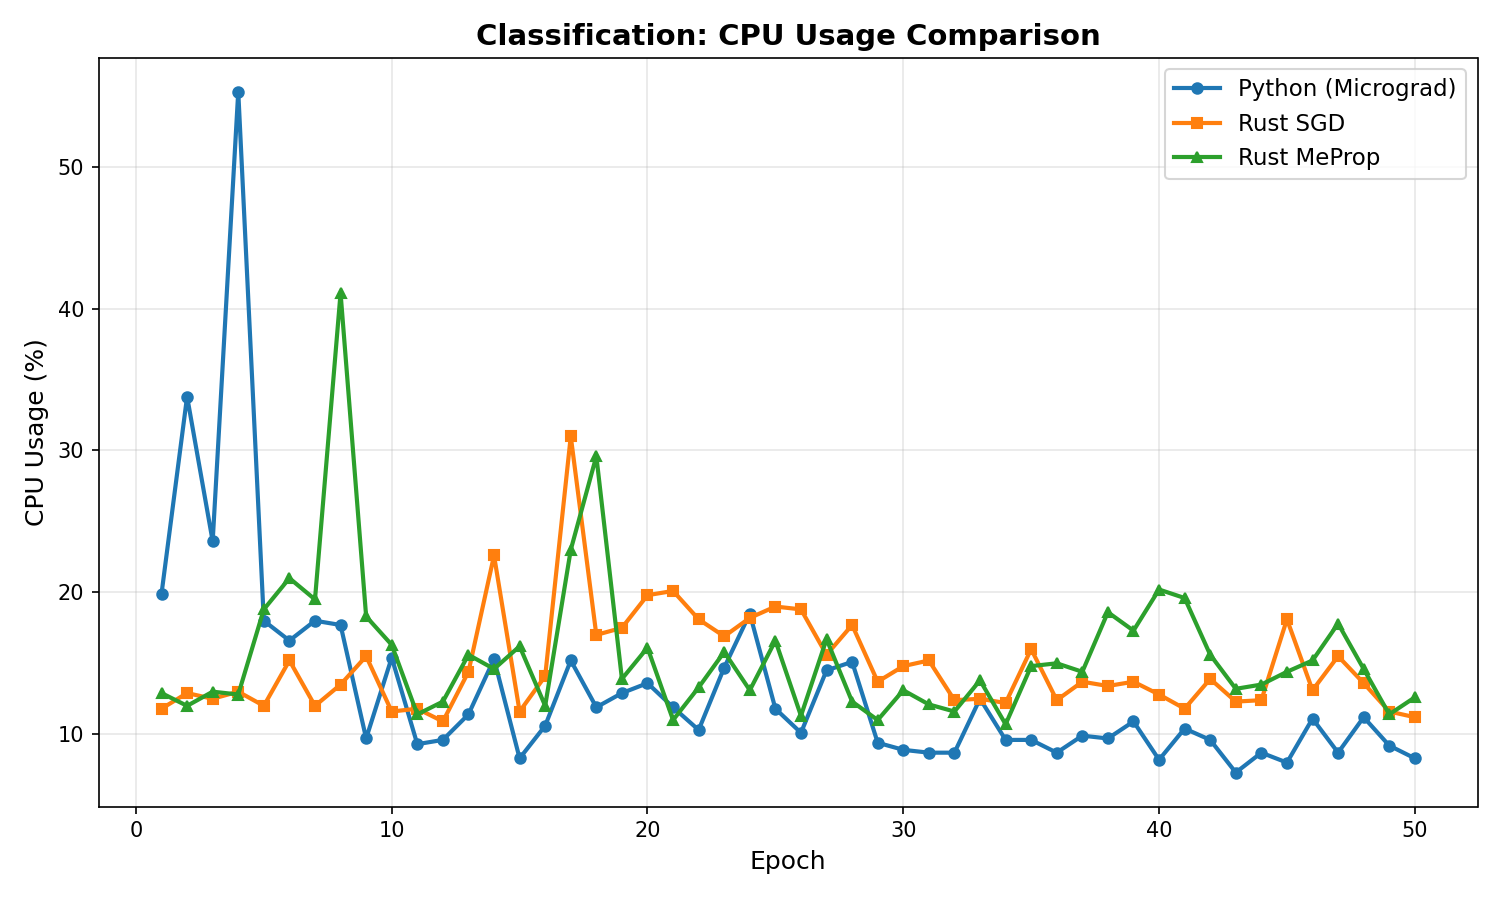
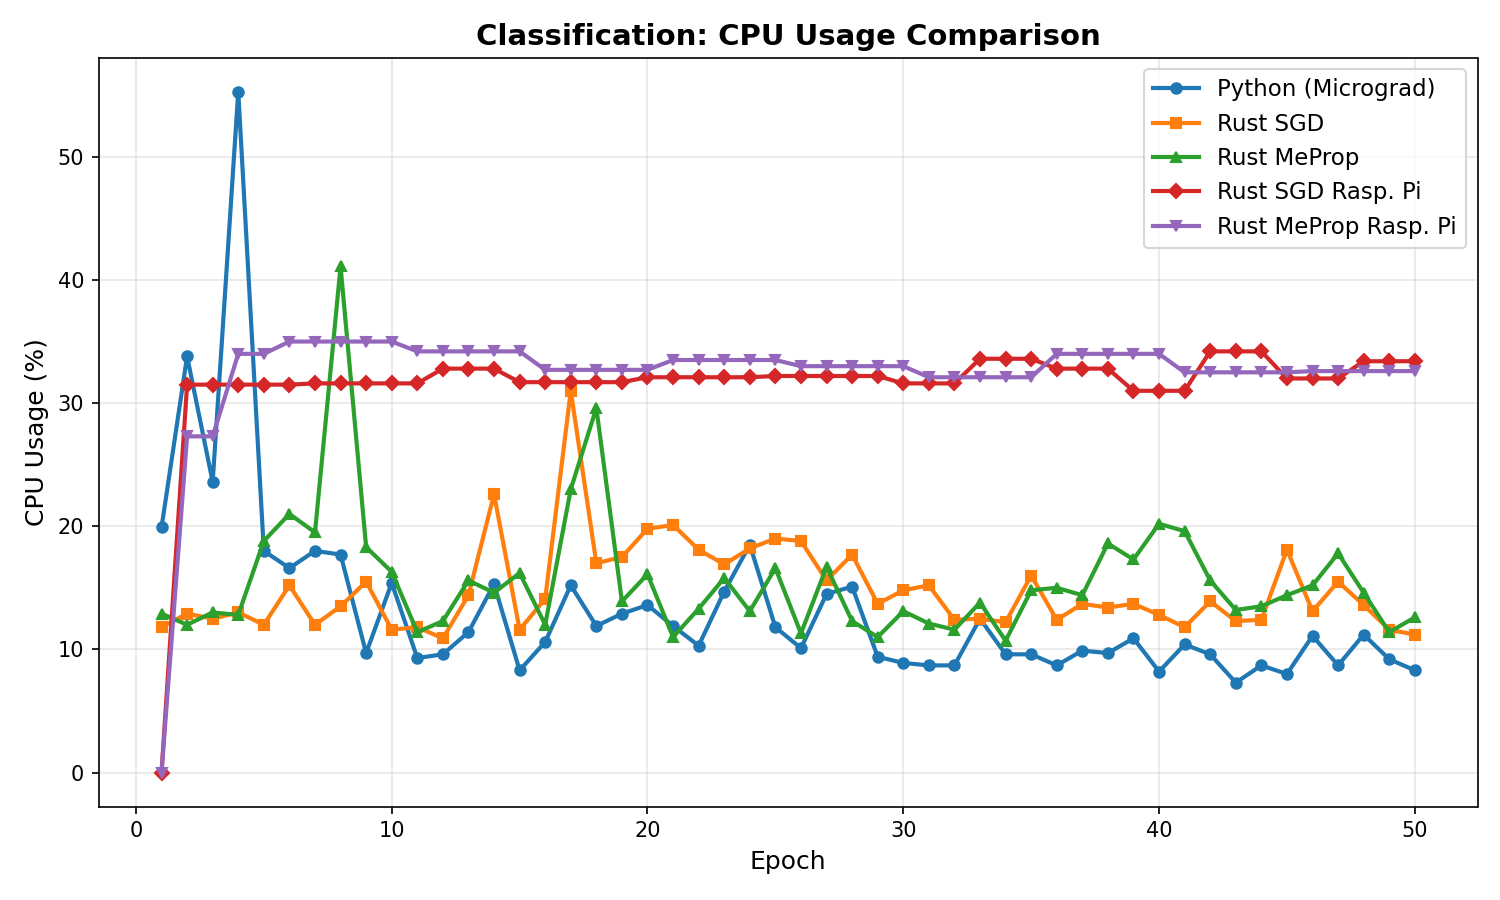
ready results

diff --git a/compare_results.py b/compare_results.py
@@ -21,12 +21,16 @@ CLASSIFICATION_RUNS = [
     ("Python (Micrograd)", "python-tests/micrograd/classification-diabetes/training_metrics.csv"),
     ("Rust SGD", "python-tests/rusty-axon/classification-diabetes/rust_classification_metrics_sgd.csv"),
     ("Rust MeProp", "python-tests/rusty-axon/classification-diabetes/rust_classification_metrics_meprop.csv"),
+    ("Rust SGD Rasp. Pi", "python-tests/rusty-axon-rpi/classification-diabetes/rust_classification_metrics_sgd.csv"),
+    ("Rust MeProp Rasp. Pi", "python-tests/rusty-axon-rpi/classification-diabetes/rust_classification_metrics_meprop.csv"),
 ]
 
 REGRESSION_RUNS = [
     ("Python (Micrograd)", "python-tests/micrograd/regression-california-housing/training_metrics.csv"),
     ("Rust SGD", "python-tests/rusty-axon/regression-california-housing/rust_regression_metrics_sgd.csv"),
     ("Rust MeProp", "python-tests/rusty-axon/regression-california-housing/rust_regression_metrics_meprop.csv"),
+    ("Rust SGD Rasp. Pi", "python-tests/rusty-axon-rpi/regression-california-housing/rust_regression_metrics_sgd.csv"),
+    ("Rust MeProp Rasp. Pi", "python-tests/rusty-axon-rpi/regression-california-housing/rust_regression_metrics_meprop.csv"),
 ]
 
 
@@ -334,14 +338,6 @@ def main() -> None:
         print()
         regression_runs = compare_regression()
 
-    print("\n" + "=" * 80)
-    print("KEY TAKEAWAYS")
-    print("=" * 80)
-    print("• Rust should be 5-10x faster due to compiled, optimized code")
-    print("• Model quality (accuracy/loss) should be similar (±5%)")
-    print("• Minor differences expected due to random initialization")
-    print("• Rust provides type safety & memory safety guarantees")
-    print("=" * 80)
 
     if classification_runs or regression_runs:
         print("\n📝 Saving summary to markdown...")

diff --git a/python-tests/graphs/benchmark_summary.md b/python-tests/graphs/benchmark_summary.md
@@ -1,6 +1,6 @@
 # Benchmark Comparison: Micrograd (Python) vs Rusty-Axon (Rust)
 
-*Generated: 2025-12-10 22:35:16*
+*Generated: 2025-12-11 07:51:21*
 
 ---
 
@@ -9,21 +9,21 @@
 ### Final Epoch Metrics
 
 
-| Metric | Python (Micrograd) | Rust SGD | Rust MeProp | Diff vs Python (Micrograd) |
-|---|---|---|---|---|
-| Train Loss | 0.383098 | 0.243230 | 0.232257 | -0.139868 / -0.150841 |
-| Train Accuracy | 0.768730 | 0.757329 | 0.781759 | -0.011401 / +0.013029 |
-| Test Loss | 0.416294 | 0.245174 | 0.264327 | -0.171120 / -0.151967 |
-| Test Accuracy | 0.753247 | 0.740260 | 0.753247 | -0.012987 / +0.000000 |
-| F1 Score | 0.586957 | 0.726027 | 0.577778 | +0.139070 / -0.009179 |
+| Metric | Python (Micrograd) | Rust SGD | Rust MeProp | Rust SGD Rasp. Pi | Rust MeProp Rasp. Pi | Diff vs Python (Micrograd) |
+|---|---|---|---|---|---|---|
+| Train Loss | 0.383098 | 0.243230 | 0.232257 | 0.236532 | 0.247883 | -0.139868 / -0.150841 / -0.146566 / -0.135215 |
+| Train Accuracy | 0.768730 | 0.757329 | 0.781759 | 0.778502 | 0.773616 | -0.011401 / +0.013029 / +0.009772 / +0.004886 |
+| Test Loss | 0.416294 | 0.245174 | 0.264327 | 0.237936 | 0.270961 | -0.171120 / -0.151967 / -0.178358 / -0.145333 |
+| Test Accuracy | 0.753247 | 0.740260 | 0.753247 | 0.772727 | 0.759740 | -0.012987 / +0.000000 / +0.019480 / +0.006493 |
+| F1 Score | 0.586957 | 0.726027 | 0.577778 | 0.615385 | 0.610526 | +0.139070 / -0.009179 / +0.028428 / +0.023569 |
 ### Performance Metrics
 
-| Metric | Python (Micrograd) | Rust SGD | Speedup | Rust MeProp | Speedup |
-|---|---|---|---|---|---|
-| Total Training Time (s) | 35.31 | 2.31 | 15.31x | 2.31 | 15.27x
-| Avg Time per Epoch (s) | 0.71 | 0.05 | 15.31x | 0.05 | 15.27x
-| Avg CPU Usage (%) | 13.2 | 14.8 | - | 15.6 | - |
-| Avg RAM Usage (%) | 19.5 | 16.7 | - | 16.7 | - |
+| Metric | Python (Micrograd) | Rust SGD | Speedup | Rust MeProp | Speedup | Rust SGD Rasp. Pi | Speedup | Rust MeProp Rasp. Pi | Speedup |
+|---|---|---|---|---|---|---|---|---|---|
+| Total Training Time (s) | 35.31 | 2.31 | 15.31x | 2.31 | 15.27x | 4.74 | 7.44x | 4.80 | 7.36x
+| Avg Time per Epoch (s) | 0.71 | 0.05 | 15.31x | 0.05 | 15.27x | 0.09 | 7.44x | 0.10 | 7.36x
+| Avg CPU Usage (%) | 13.2 | 14.8 | - | 15.6 | - | 31.6 | - | 32.4 | - |
+| Avg RAM Usage (%) | 19.5 | 16.7 | - | 16.7 | - | 10.2 | - | 10.2 | - |
 
 ### Generated Plots
 
@@ -43,18 +43,18 @@
 ### Final Epoch Metrics
 
 
-| Metric | Python (Micrograd) | Rust SGD | Rust MeProp | Diff vs Python (Micrograd) |
-|---|---|---|---|---|
-| Loss (MSE) | 0.001892 | 0.000277 | 0.000020 | -0.001615 / -0.001872 |
-| RMSE | 0.043498 | 0.016608 | 0.004503 | -0.026890 / -0.038995 |
+| Metric | Python (Micrograd) | Rust SGD | Rust MeProp | Rust SGD Rasp. Pi | Rust MeProp Rasp. Pi | Diff vs Python (Micrograd) |
+|---|---|---|---|---|---|---|
+| Loss (MSE) | 0.001892 | 0.000277 | 0.000020 | 0.000079 | 0.000019 | -0.001615 / -0.001872 / -0.001813 / -0.001873 |
+| RMSE | 0.043498 | 0.016608 | 0.004503 | 0.008634 | 0.004799 | -0.026890 / -0.038995 / -0.034864 / -0.038699 |
 ### Performance Metrics
 
-| Metric | Python (Micrograd) | Rust SGD | Speedup | Rust MeProp | Speedup |
-|---|---|---|---|---|---|
-| Total Training Time (s) | 42.09 | 3.00 | 14.03x | 3.00 | 14.03x
-| Avg Time per Epoch (s) | 4.21 | 0.30 | 14.03x | 0.30 | 14.03x
-| Avg CPU Usage (%) | 11.8 | 12.8 | - | 11.8 | - |
-| Avg RAM Usage (%) | 19.4 | 16.7 | - | 16.8 | - |
+| Metric | Python (Micrograd) | Rust SGD | Speedup | Rust MeProp | Speedup | Rust SGD Rasp. Pi | Speedup | Rust MeProp Rasp. Pi | Speedup |
+|---|---|---|---|---|---|---|---|---|---|
+| Total Training Time (s) | 42.09 | 3.00 | 14.03x | 3.00 | 14.03x | 9.00 | 4.68x | 9.20 | 4.57x
+| Avg Time per Epoch (s) | 4.21 | 0.30 | 14.03x | 0.30 | 14.03x | 0.90 | 4.68x | 0.92 | 4.57x
+| Avg CPU Usage (%) | 11.8 | 12.8 | - | 11.8 | - | 26.1 | - | 26.1 | - |
+| Avg RAM Usage (%) | 19.4 | 16.7 | - | 16.8 | - | 11.7 | - | 11.7 | - |
 
 ### Generated Plots
 
